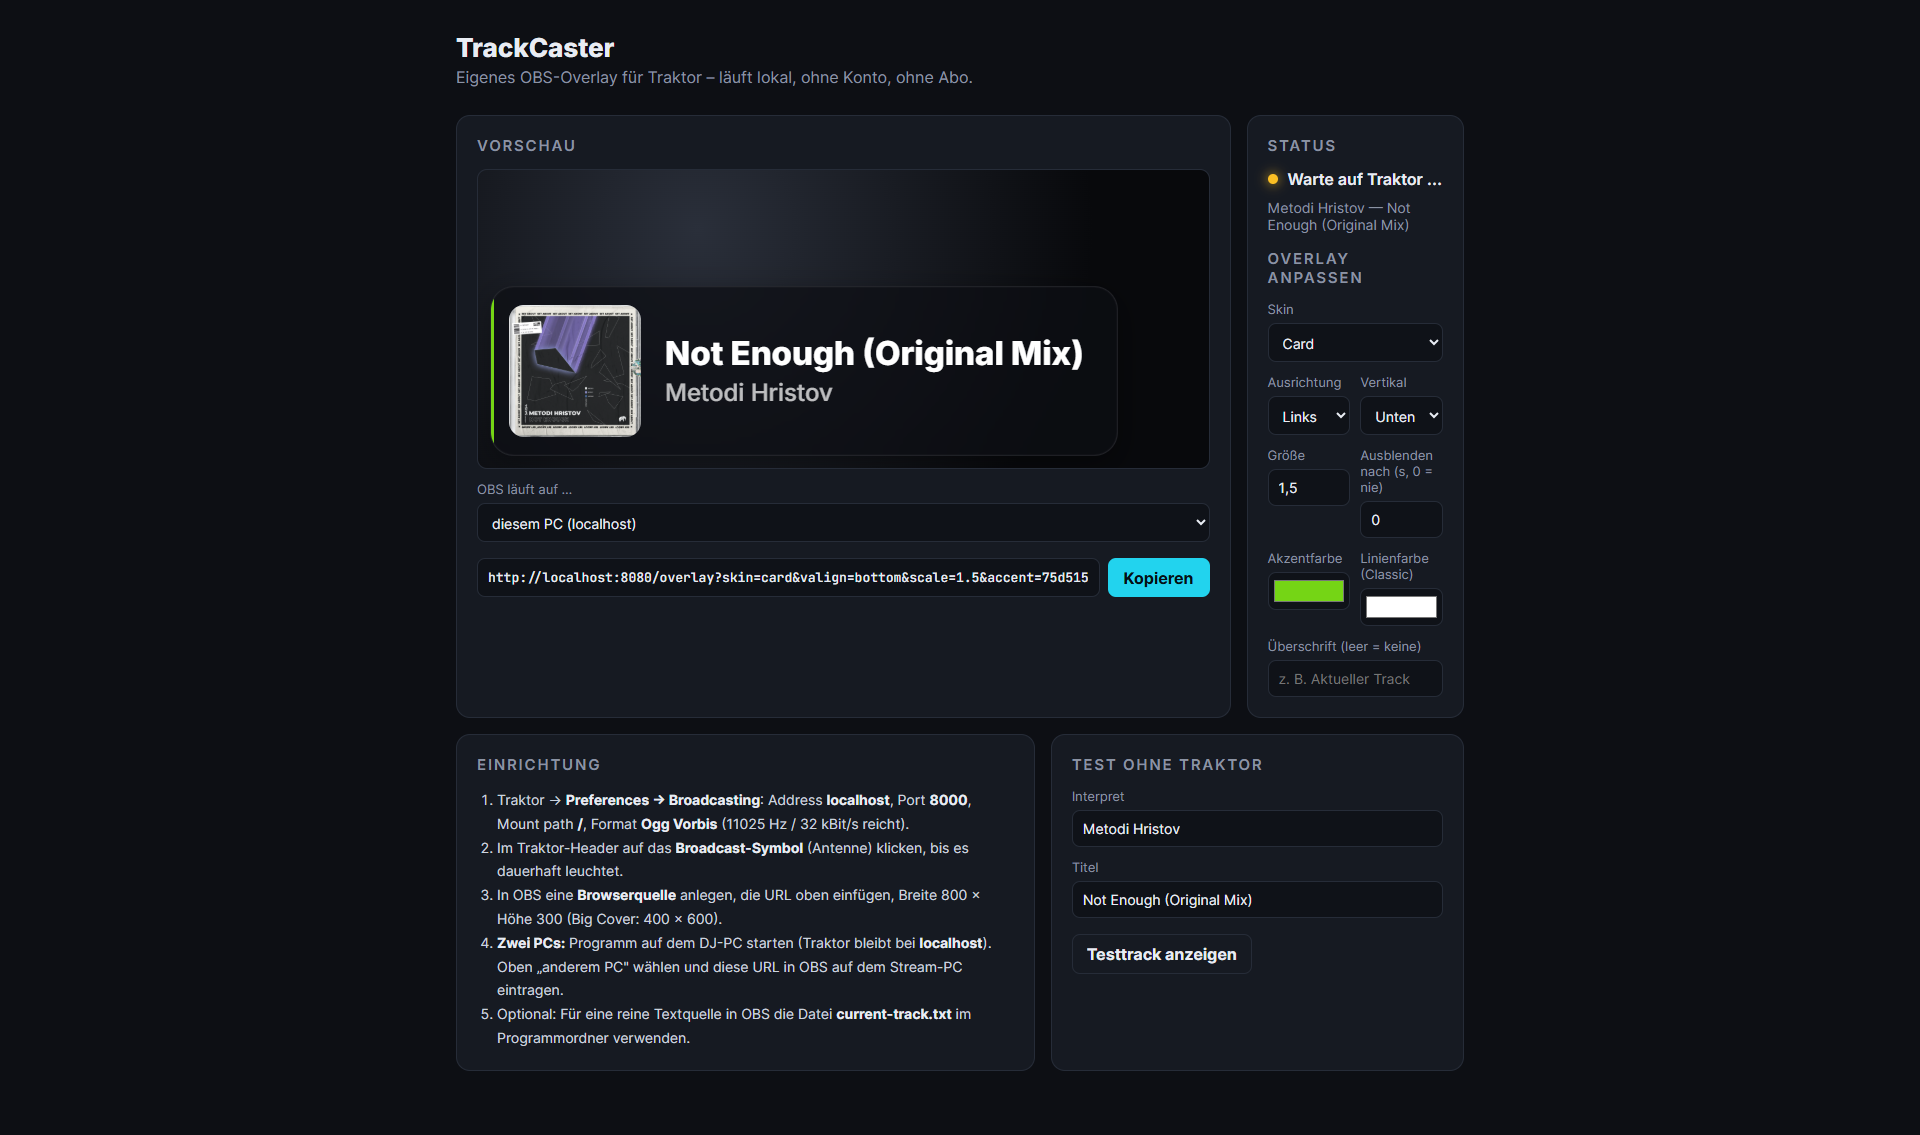
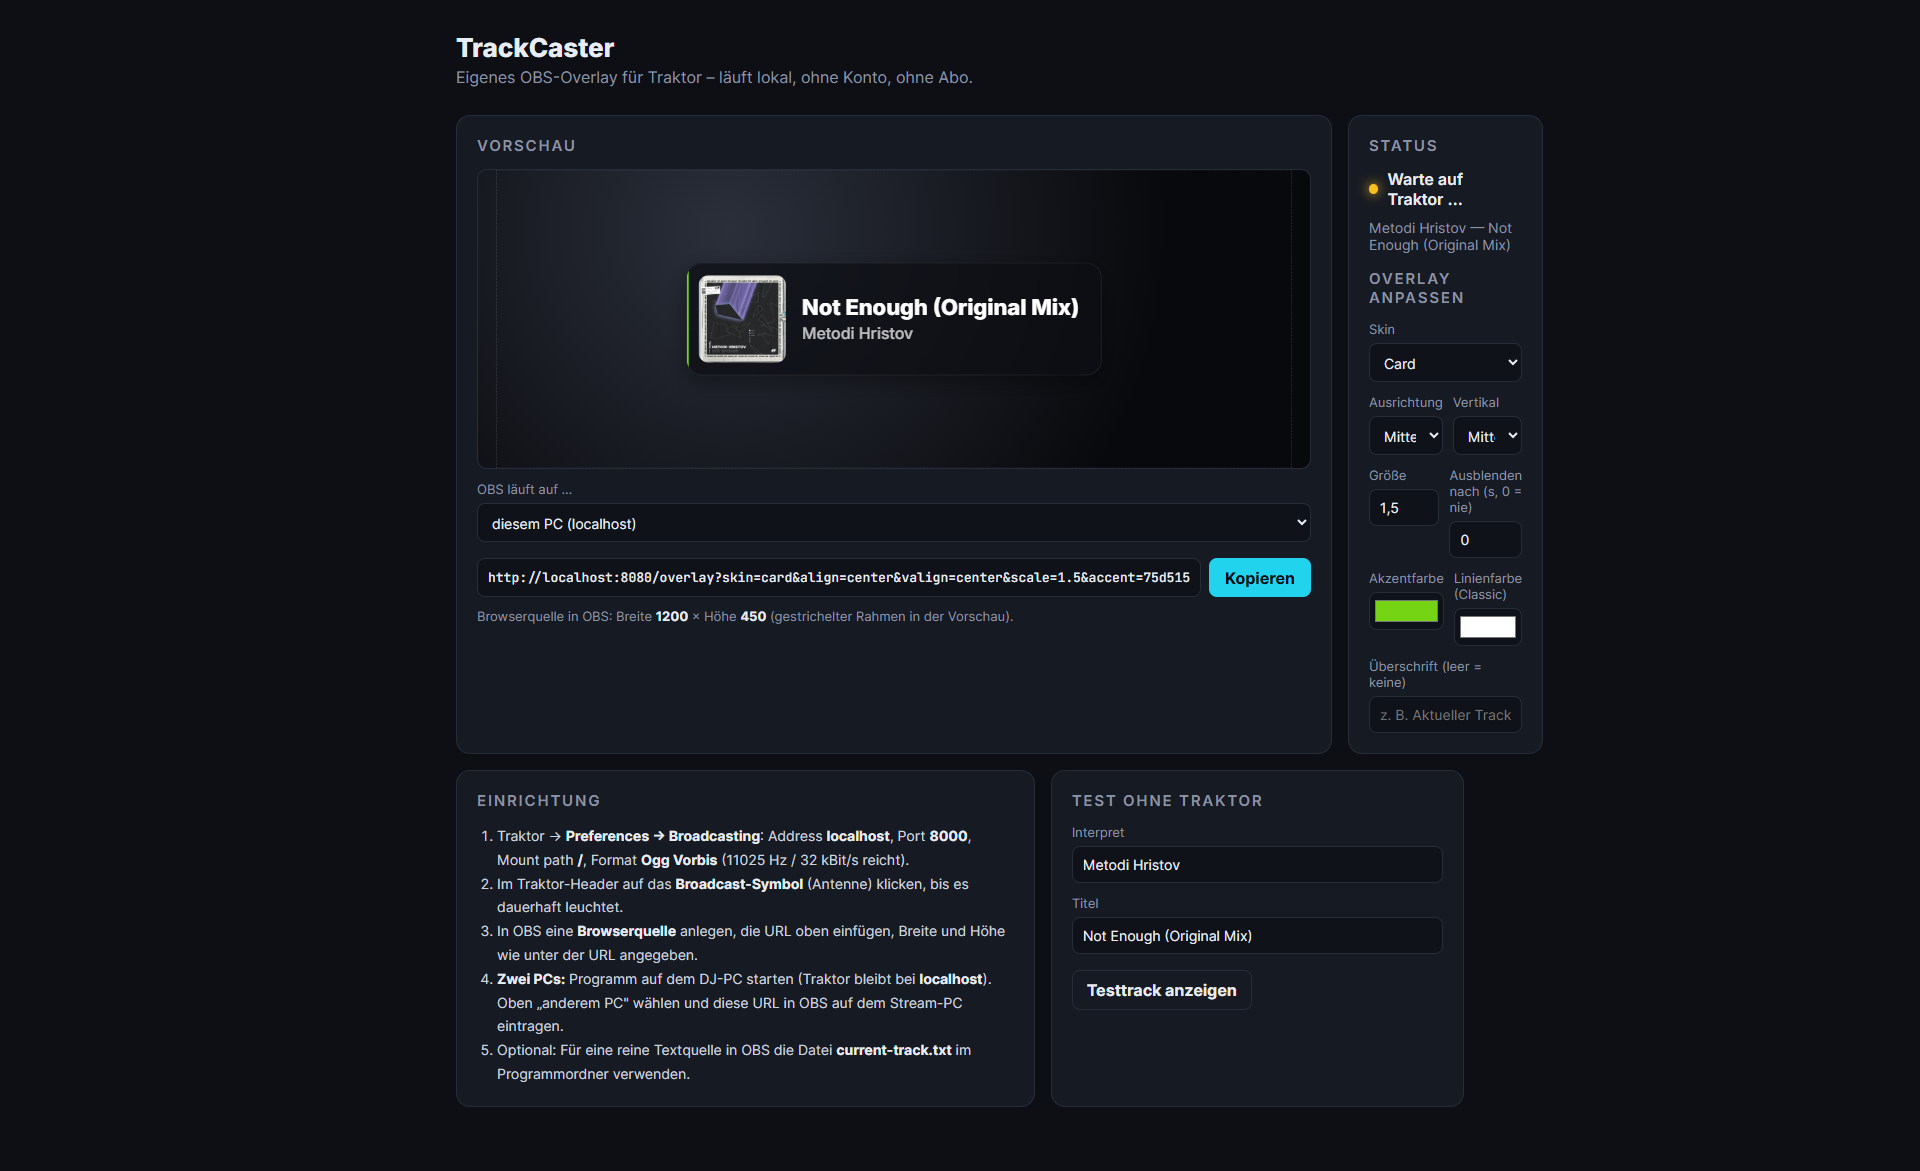
Neuer Screenshot, Einstellungsseite nicht mehr durch lange URL verbreitert

diff --git a/public/index.html b/public/index.html
@@ -13,8 +13,8 @@
   h1 { font-size: 26px; font-weight: 800; margin: 0 0 4px; }
   h2 { font-size: 15px; text-transform: uppercase; letter-spacing: .12em; color: var(--dim); margin: 0 0 14px; font-weight: 600; }
   p.sub { color: var(--dim); margin: 0 0 28px; }
-  .grid { display: grid; grid-template-columns: 1.4fr 1fr; gap: 16px; }
-  @media (max-width: 820px) { .grid { grid-template-columns: 1fr; } }
+  .grid { display: grid; grid-template-columns: minmax(0, 1.4fr) minmax(0, 1fr); gap: 16px; }
+  @media (max-width: 820px) { .grid { grid-template-columns: minmax(0, 1fr); } }
   .card { background: var(--card); border: 1px solid var(--line); border-radius: 14px; padding: 20px; }
   .status { display: flex; gap: 10px; align-items: center; font-weight: 600; }
   .dot { width: 10px; height: 10px; border-radius: 50%; background: var(--warn); box-shadow: 0 0 12px var(--warn); }
